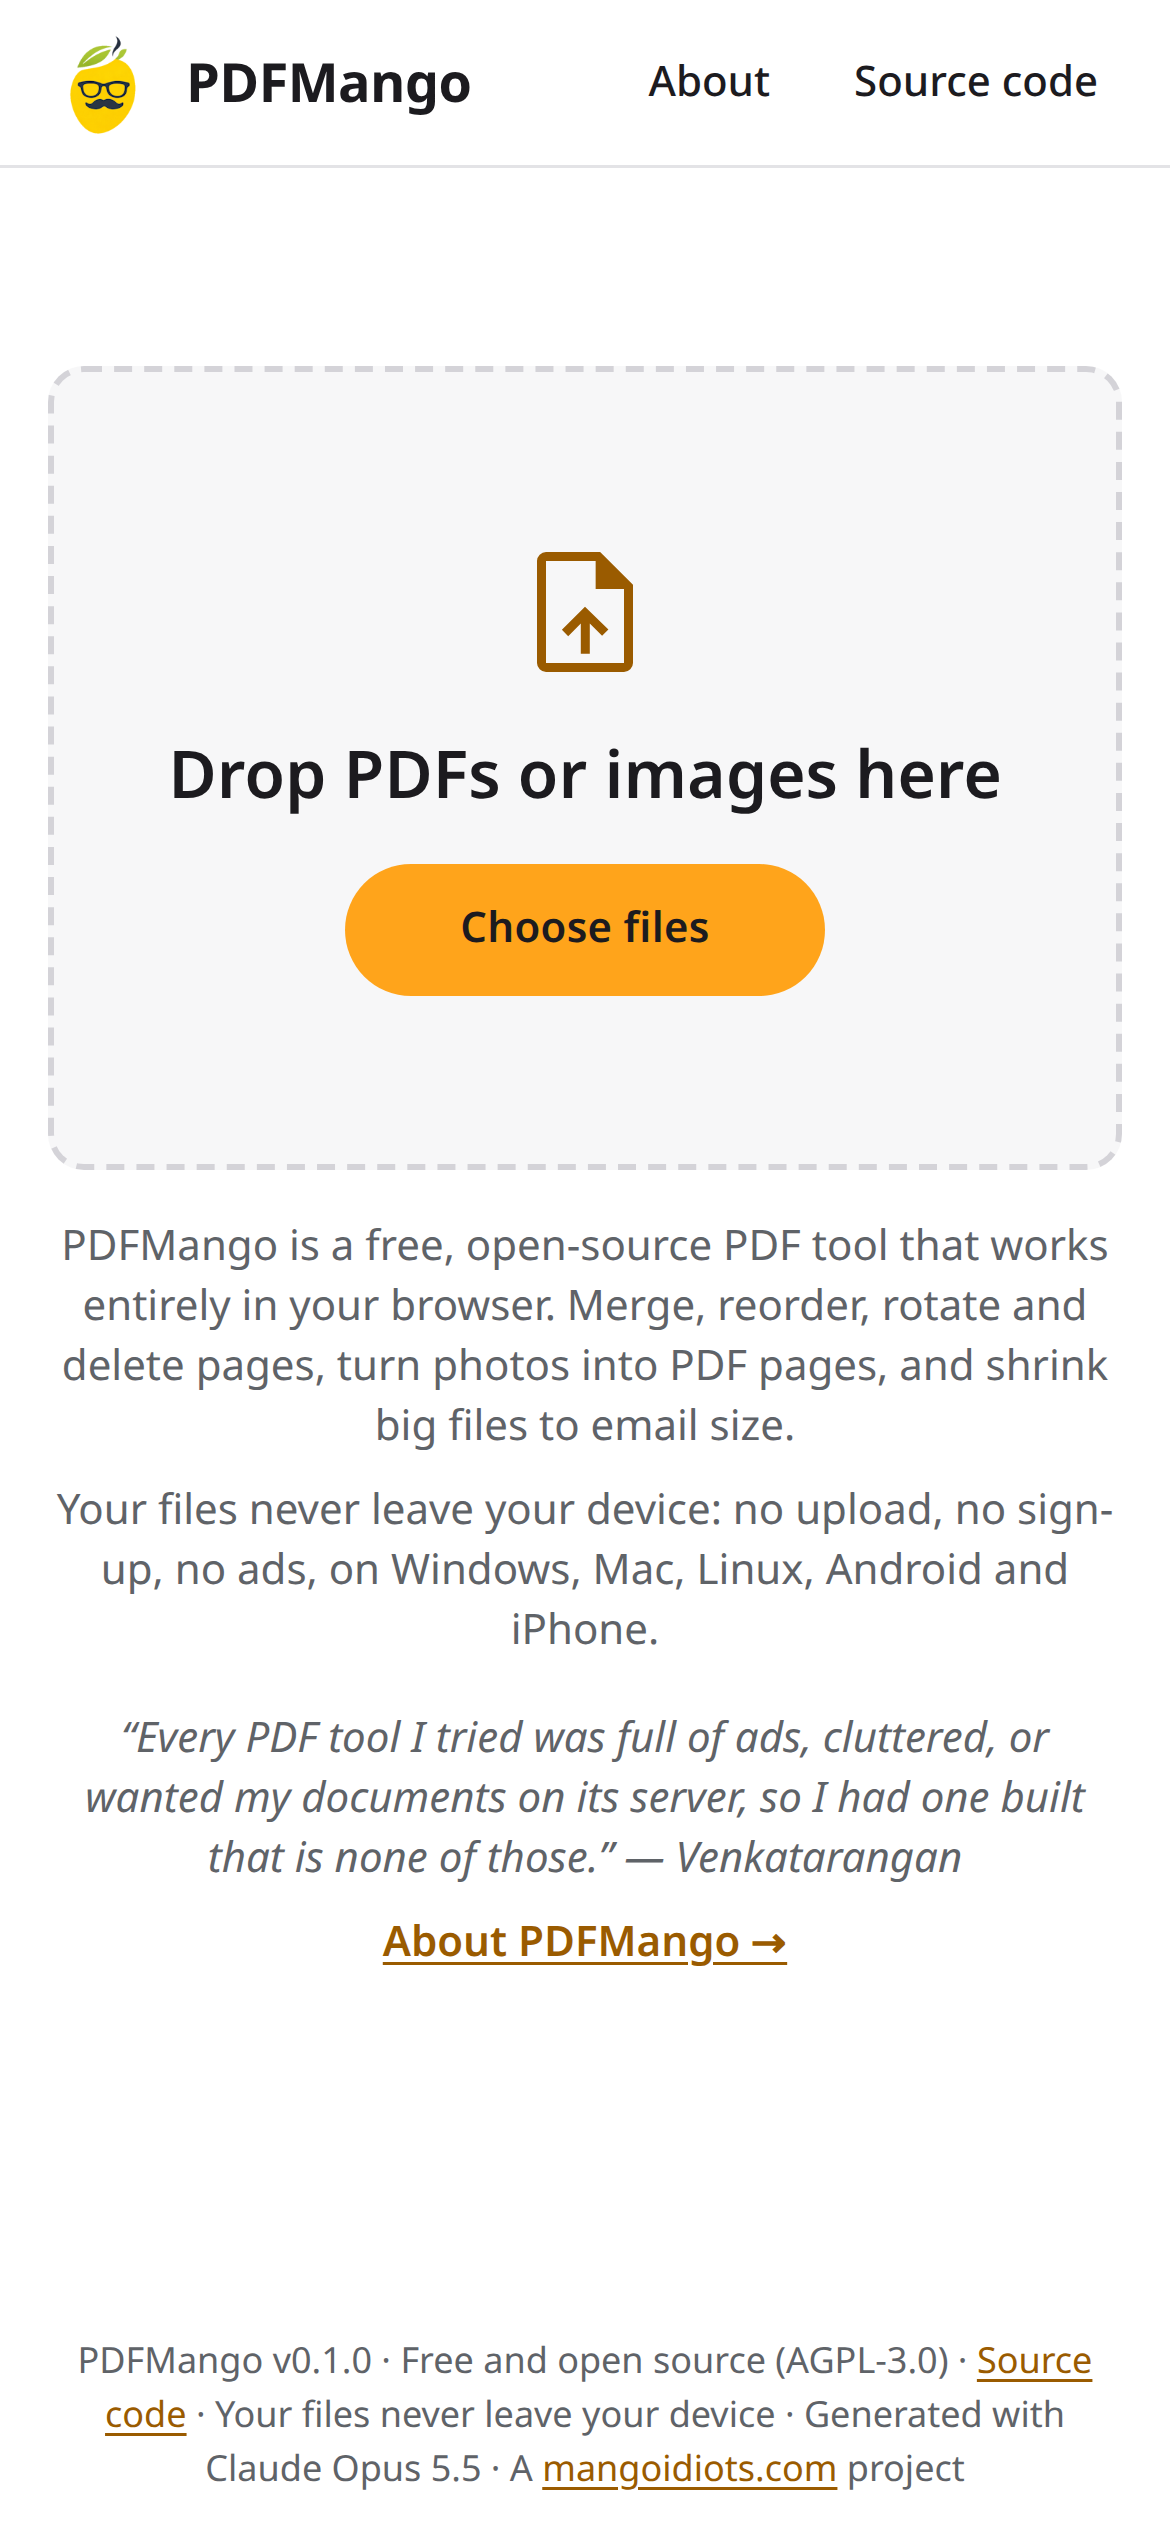
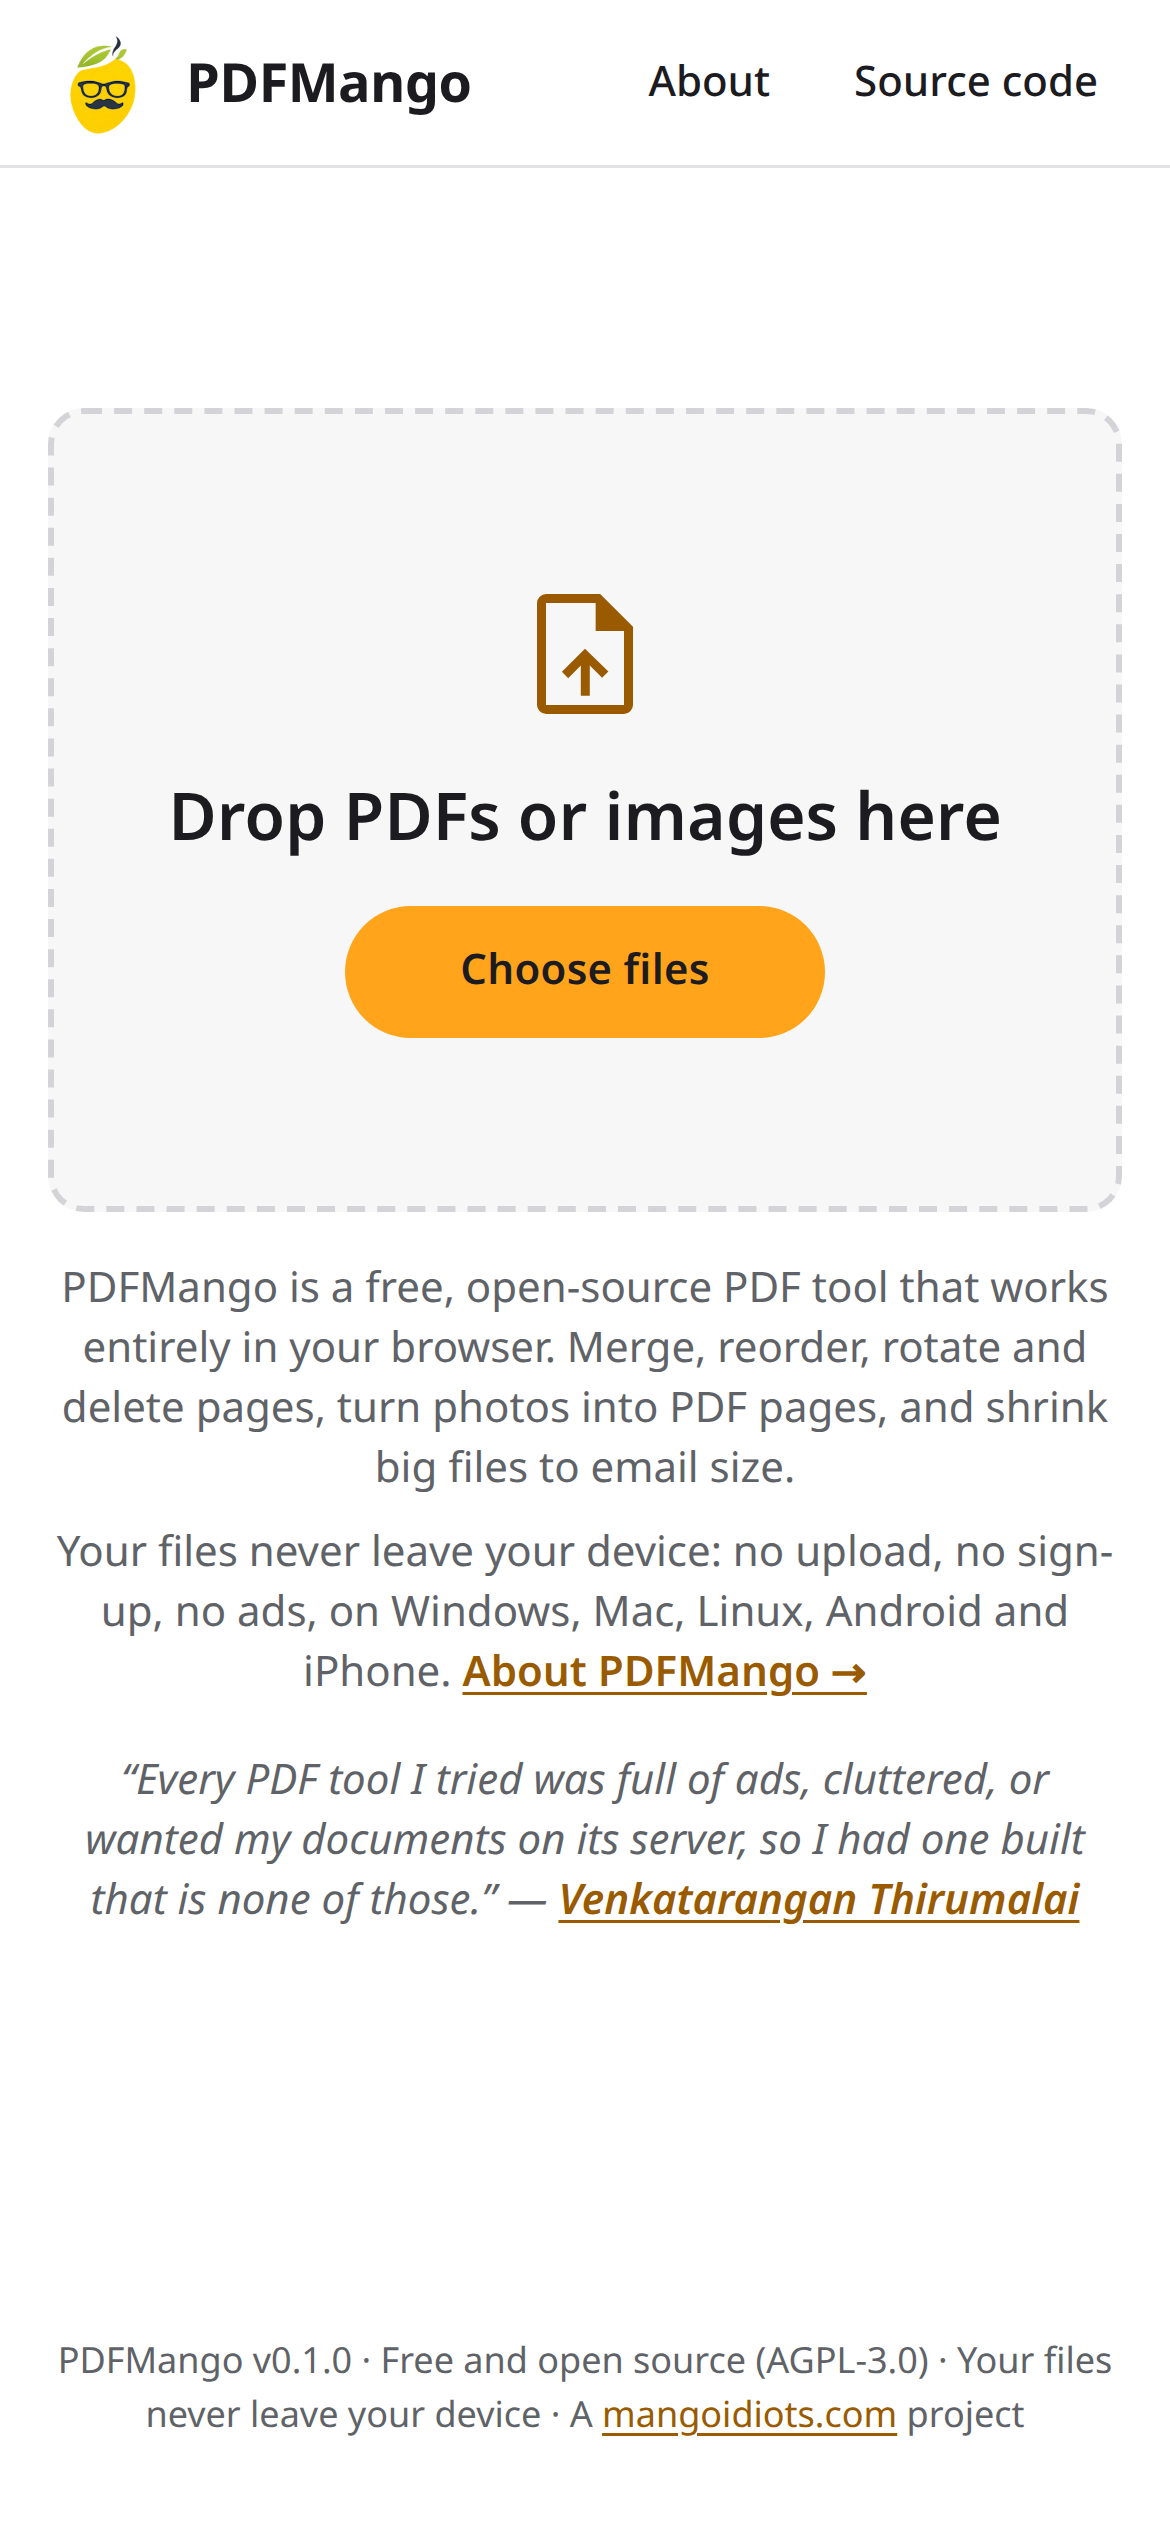
Intro credits Venkatarangan Thirumalai; About gets hero image and Built with AI section; slimmer footer

diff --git a/about/index.html b/about/index.html
@@ -33,6 +33,7 @@
     </header>
 
     <main class="about">
+      <img class="hero" src="/social-preview.png" width="1200" height="630" alt="PDFMango: merge, reorder, rotate and compress PDFs. Your files never leave your device." />
       <h1>About PDFMango</h1>
       <p class="lead">
         PDFMango is a free PDF tool that runs entirely in your browser. It merges PDFs, puts pages in the right order, turns
@@ -117,14 +118,29 @@
           <li><a href="https://vite-pwa-org.netlify.app/" rel="noopener">vite-plugin-pwa</a> and Workbox — offline support (MIT)</li>
           <li><a href="https://fonts.google.com/icons" rel="noopener">Material Symbols</a> — icons (Apache-2.0)</li>
         </ul>
-        <p>Designed and developed with Claude (Opus 5.5) by Anthropic. The mangoidiots name and logo are Venkatarangan Thirumalai's own branding.</p>
+        <p>The mangoidiots name and logo are Venkatarangan Thirumalai's own branding.</p>
+      </section>
+
+      <section aria-labelledby="ai">
+        <h2 id="ai">Built with AI</h2>
+        <p>
+          PDFMango was generated with <strong>Claude Opus 5.5</strong>, Anthropic's AI model, working in
+          <a href="https://claude.com/claude-code" rel="noopener">Claude Code</a>. Venkatarangan Thirumalai wrote the
+          specification and made the product decisions; Claude designed and wrote the code, the tests and this documentation,
+          tested the PDF engine before building on it, and checked its work with automated tests on desktop and phone layouts.
+        </p>
+        <p>
+          Everything is open: the
+          <a href="https://github.com/venkatarangan/pdfmango/blob/main/SPECIFICATION.md" rel="noopener">specification</a>, the
+          <a href="https://github.com/venkatarangan/pdfmango/blob/main/prompt-history.md" rel="noopener">prompts used to build it</a>
+          and the <a href="https://github.com/venkatarangan/pdfmango/blob/main/SPIKE.md" rel="noopener">engine spike findings</a>
+          are in the source repository, so anyone can see exactly how it was made.
+        </p>
       </section>
     </main>
 
     <footer class="footer">
-      PDFMango v%PDFMANGO_VERSION% · Free and open source (AGPL-3.0) ·
-      <a href="https://github.com/venkatarangan/pdfmango" rel="noopener">Source code</a> ·
-      Your files never leave your device · Generated with Claude Opus 5.5 ·
+      PDFMango v%PDFMANGO_VERSION% · Free and open source (AGPL-3.0) · Your files never leave your device ·
       A <a href="https://mangoidiots.com" rel="noopener">mangoidiots.com</a> project
     </footer>
   </body>

diff --git a/index.html b/index.html
@@ -46,17 +46,14 @@
         </div>
         <div class="intro">
           <p>PDFMango is a free, open-source PDF tool that works entirely in your browser. Merge, reorder, rotate and delete pages, turn photos into PDF pages, and shrink big files to email size.</p>
-          <p>Your files never leave your device: no upload, no sign-up, no ads, on Windows, Mac, Linux, Android and iPhone.</p>
-          <p class="why">“Every PDF tool I tried was full of ads, cluttered, or wanted my documents on its server, so I had one built that is none of those.” — Venkatarangan</p>
-          <p><a href="/about/">About PDFMango →</a></p>
+          <p>Your files never leave your device: no upload, no sign-up, no ads, on Windows, Mac, Linux, Android and iPhone. <a href="/about/">About PDFMango →</a></p>
+          <p class="why">“Every PDF tool I tried was full of ads, cluttered, or wanted my documents on its server, so I had one built that is none of those.” — <a href="https://thefoundercatalyst.com/venkatarangan" rel="noopener">Venkatarangan Thirumalai</a></p>
         </div>
       </div>
     </main>
 
     <footer class="footer">
-      PDFMango v%PDFMANGO_VERSION% · Free and open source (AGPL-3.0) ·
-      <a href="https://github.com/venkatarangan/pdfmango" rel="noopener">Source code</a> ·
-      Your files never leave your device · Generated with Claude Opus 5.5 ·
+      PDFMango v%PDFMANGO_VERSION% · Free and open source (AGPL-3.0) · Your files never leave your device ·
       A <a href="https://mangoidiots.com" rel="noopener">mangoidiots.com</a> project
     </footer>
 

diff --git a/src/App.svelte b/src/App.svelte
@@ -113,9 +113,8 @@
     </div>
     <div class="intro">
       <p>PDFMango is a free, open-source PDF tool that works entirely in your browser. Merge, reorder, rotate and delete pages, turn photos into PDF pages, and shrink big files to email size.</p>
-      <p>Your files never leave your device: no upload, no sign-up, no ads, on Windows, Mac, Linux, Android and iPhone.</p>
-      <p class="why">“Every PDF tool I tried was full of ads, cluttered, or wanted my documents on its server, so I had one built that is none of those.” — Venkatarangan</p>
-      <p><a href="/about/">About PDFMango →</a></p>
+      <p>Your files never leave your device: no upload, no sign-up, no ads, on Windows, Mac, Linux, Android and iPhone. <a href="/about/">About PDFMango →</a></p>
+      <p class="why">“Every PDF tool I tried was full of ads, cluttered, or wanted my documents on its server, so I had one built that is none of those.” — <a href="https://thefoundercatalyst.com/venkatarangan" rel="noopener">Venkatarangan Thirumalai</a></p>
     </div>
   </div>
 {:else}

diff --git a/tests/e2e/app.spec.ts b/tests/e2e/app.spec.ts
@@ -233,7 +233,9 @@ test('About page carries the required texts', async ({ page }) => {
   await expect(page.getByText('PDFMango uses Google Analytics to count anonymous visits')).toBeVisible();
   await expect(page.getByText('provided as is, without warranty of any kind')).toBeVisible();
   await expect(page.getByRole('link', { name: 'MuPDF.js' })).toBeVisible();
-  await expect(page.locator('footer.footer')).toContainText('Generated with Claude Opus 5.5');
+  await expect(page.getByRole('heading', { name: 'Built with AI' })).toBeVisible();
+  await expect(page.locator('main')).toContainText('Claude Opus 5.5');
+  await expect(page.locator('img.hero')).toBeVisible();
 });
 
 test('works offline after the first visit', async ({ page, context }) => {

diff --git a/vite.config.ts b/vite.config.ts
@@ -65,7 +65,6 @@ export default defineConfig({
       },
       workbox: {
         globPatterns: ['**/*.{js,css,html,wasm,png,svg,webmanifest}'],
-        globIgnores: ['social-preview.png'],
         maximumFileSizeToCacheInBytes: 16 * 1024 * 1024,
         navigateFallback: '/index.html',
         navigateFallbackAllowlist: [/^\/$/],

diff --git a/src/about/about.css b/src/about/about.css
@@ -5,6 +5,14 @@
   font-size: 16px;
   line-height: 26px;
 }
+.about .hero {
+  display: block;
+  width: 100%;
+  height: auto;
+  margin-bottom: 28px;
+  border: 1px solid var(--outline);
+  border-radius: var(--radius);
+}
 .about h1 {
   font-size: 28px;
   line-height: 36px;

diff --git a/SPECIFICATION.md b/SPECIFICATION.md
@@ -244,7 +244,7 @@ One screen, white, Material 3-inspired, with mango as the only accent colour. Li
 - **Page cards:** 12 px corners, a light outline, slight elevation on hover. Selected = 2 px mango outline + a check badge in the corner.
 - **Download dialog:** a centred dialog on desktop, a bottom sheet on phones.
 - **Feedback:** a linear progress bar inside the dialog; a snackbar for results and errors.
-- **Footer:** "PDFMango v1.0.0 · Free and open source (AGPL-3.0) · Your files never leave your device · Generated with Claude Opus 5.5 · A mangoidiots.com project".
+- **Footer:** "PDFMango v1.0.0 · Free and open source (AGPL-3.0) · Your files never leave your device · A mangoidiots.com project". (2 Oct 2026: the AI credit moved to a "Built with AI" section on the About page; the Source code link is in the app bar only.)
 
 ### Logo and brand
 
@@ -330,7 +330,7 @@ object-src 'none'; base-uri 'self'
 ### Licence
 
 - Repo licence: AGPL-3.0-or-later. This is required because MuPDF.js is AGPL.
-- A visible "Source code" link in the header and footer pointing at the public GitHub repo. This meets AGPL's duty to offer the source to people using the app over a network.
+- A visible "Source code" link in the header (app bar) pointing at the public GitHub repo. This meets AGPL's duty to offer the source to people using the app over a network.
 - A `THIRD_PARTY_NOTICES.md` listing MuPDF.js (Artifex) and every other dependency with its licence.
 - The mangoidiots name and logo are Venkat's own branding.
 

diff --git a/README.md b/README.md
@@ -160,6 +160,6 @@ PDFMango is built on:
 
 Every dependency and its licence is listed in [THIRD_PARTY_NOTICES.md](THIRD_PARTY_NOTICES.md).
 
-PDFMango is licensed under the **GNU Affero General Public License v3.0 or later** ([LICENSE](LICENSE)), as MuPDF.js requires. The "Source code" links in the app bar and footer offer the source to everyone who uses the app over a network, as the AGPL asks.
+PDFMango is licensed under the **GNU Affero General Public License v3.0 or later** ([LICENSE](LICENSE)), as MuPDF.js requires. The "Source code" link in the app bar offers the source to everyone who uses the app over a network, as the AGPL asks.
 
 The mangoidiots name and logo are Venkatarangan Thirumalai's own branding and are not covered by the AGPL.

diff --git a/CHANGELOG.md b/CHANGELOG.md
@@ -6,6 +6,12 @@ All notable changes to PDFMango. Versions follow [semantic versioning](https://s
 
 First complete build, milestones 1–6 of the spec.
 
+### Changed (2 Oct 2026)
+
+- Empty screen explains what PDFMango is, links to About, and quotes why it was built, credited to Venkatarangan Thirumalai.
+- Footer is shorter: the AI credit moved to a new "Built with AI" section on the About page, and the Source code link lives in the app bar only.
+- About page opens with the social-preview image (also cached for offline use).
+
 ### Added
 
 - Spike (milestone 1) proving MuPDF.js 1.28.1 in a static site; findings in `SPIKE.md`.
